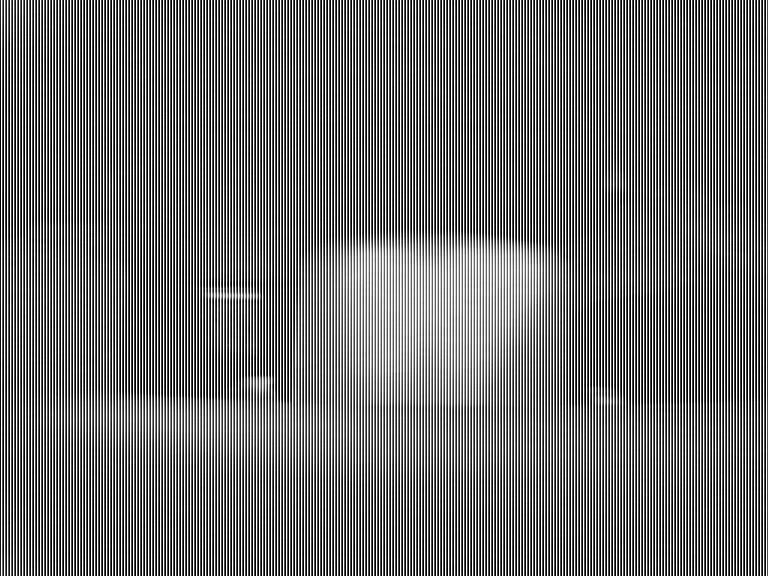
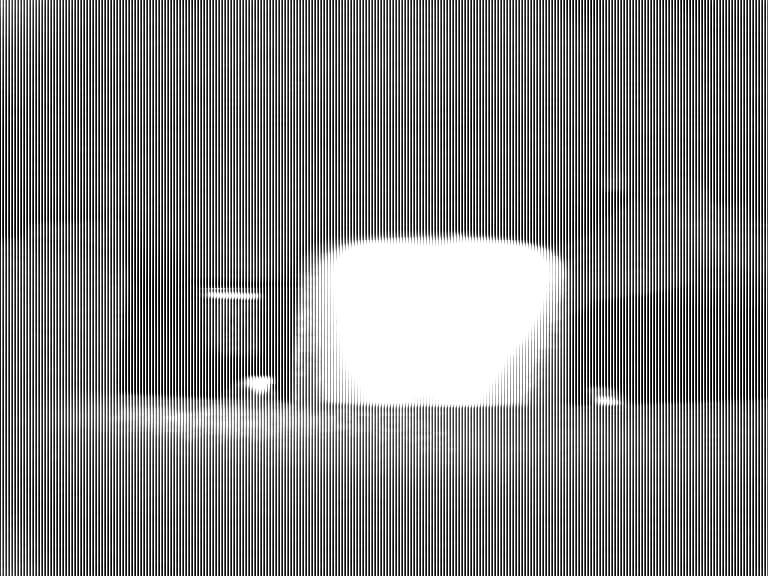
moved infraseg into experimentation

diff --git a/image processing/human_seg.py b/image processing/human_seg.py
@@ -23,6 +23,8 @@ def infra_histogram(image):
 #FLC input function, returns value between 0 and 10 based on "heating level felt"
 #takes mean of rgb numpy array of an image as input
 def flc_input(mean):
+    #old_min derived by lowest cold image mean detected from gathered data(study)
+    #old_max derived by highest hot image mean detected from gathered data(study)
     old_max = 141
     old_min = 129
     #if mean falls outside of the min and max bounds, mean is set to old_min if below
@@ -91,7 +93,7 @@ def segment_histo(image_path, colour1, colour2):
     return human_seperation, final_seg, rgb_histo
 
 #excuting main function with detected image
-image_seg = segment_histo('./images/cold/siorainbow.jpg', 'white', 'green')
+image_seg = segment_histo('./images/hot/emptyrainbow.jpg', 'white', 'green')
 
 #show relevant figures onto the screen
 plt.show()
